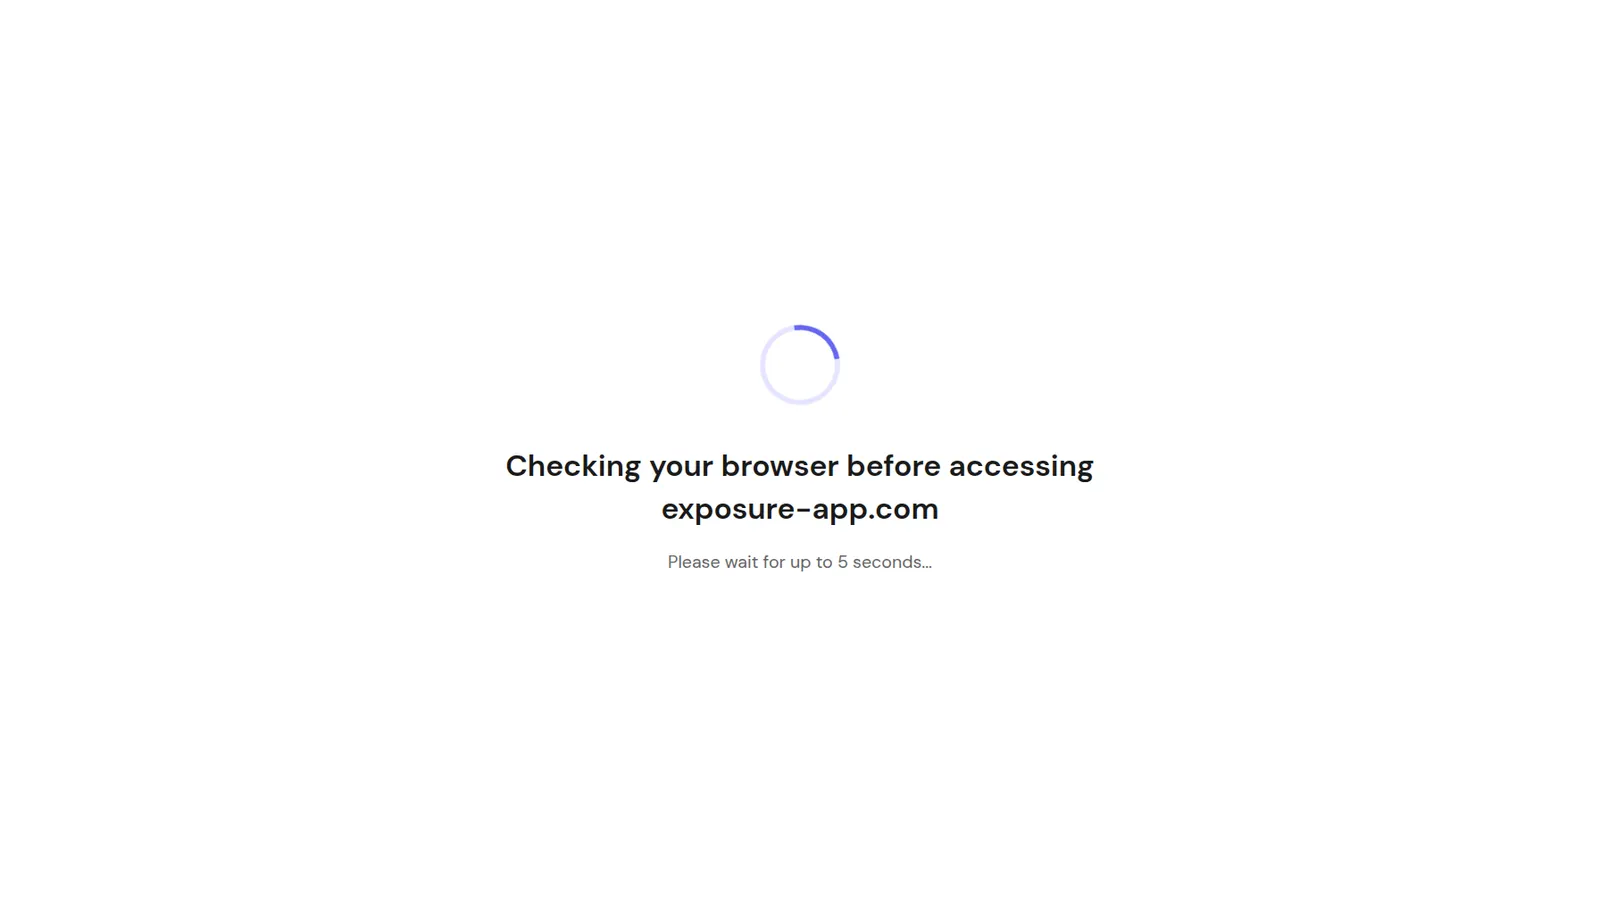
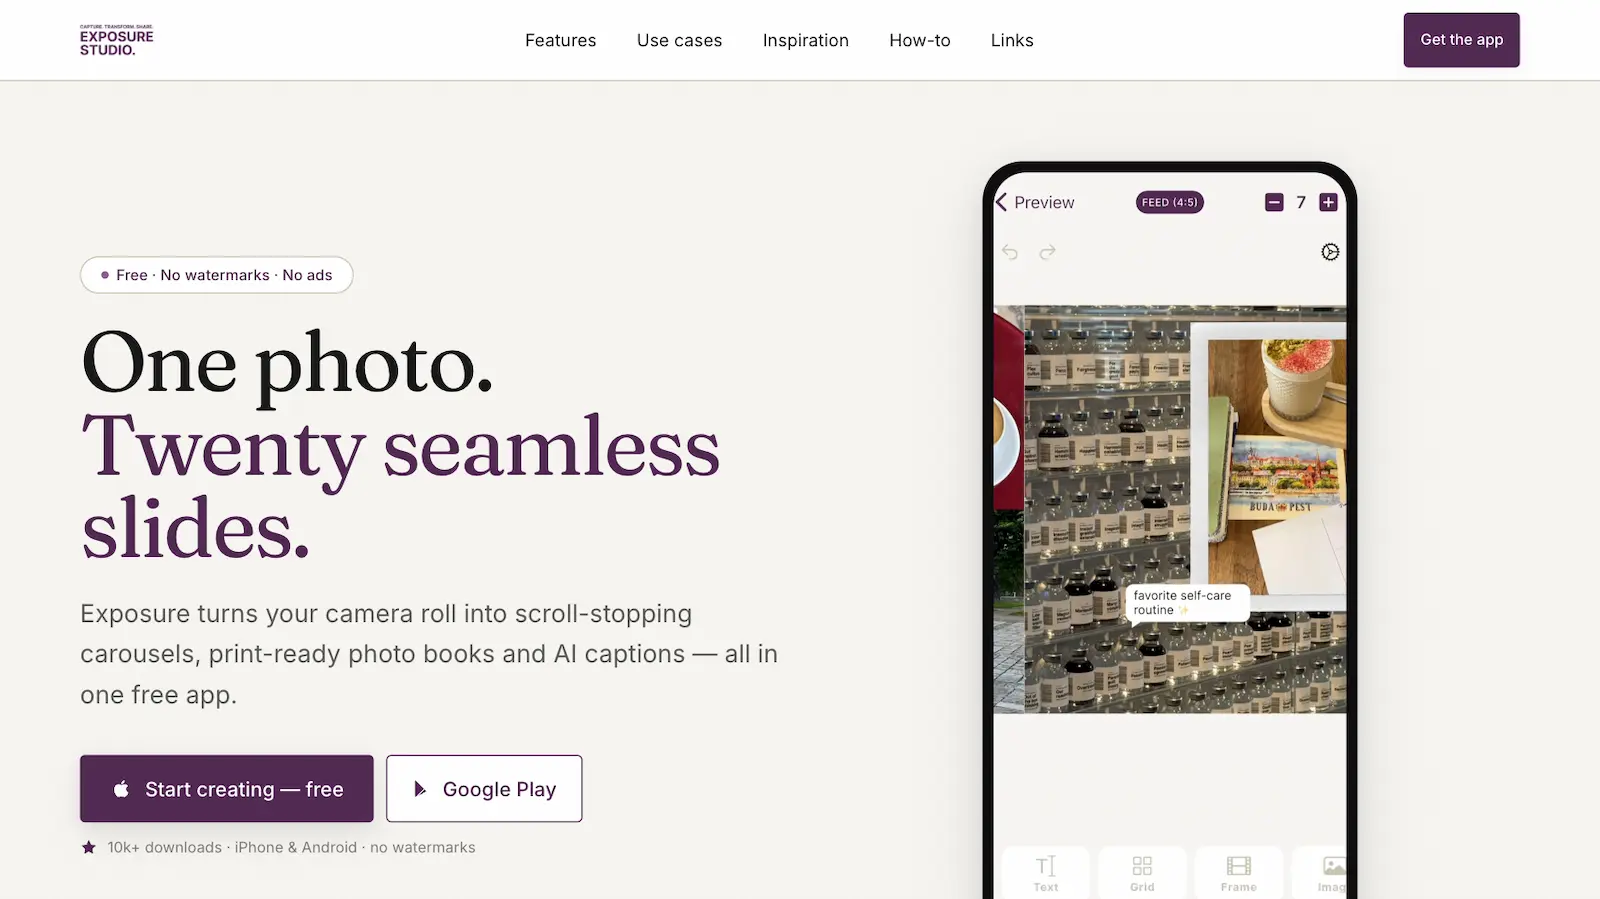
Meta 7 fixes

diff --git a/src/content.config.ts b/src/content.config.ts
@@ -179,6 +179,10 @@ export const collections = {
 					.refine((value) => value !== 'Vercel Security Checkpoint', {
 						error:
 							"A showcase entry's title cannot be 'Vercel Security Checkpoint' which usually indicates a loading error.\nMake sure to update the title manually.\n",
+					})
+					.refine((value) => value !== 'Checking your browser before accessing. Just a moment...', {
+						error:
+							"A showcase entry's title cannot be 'Checking your browser before accessing. Just a moment...' which usually indicates a loading error.\nMake sure to update the title manually.\n",
 					}),
 				image: image(),
 				url: z.url(),
